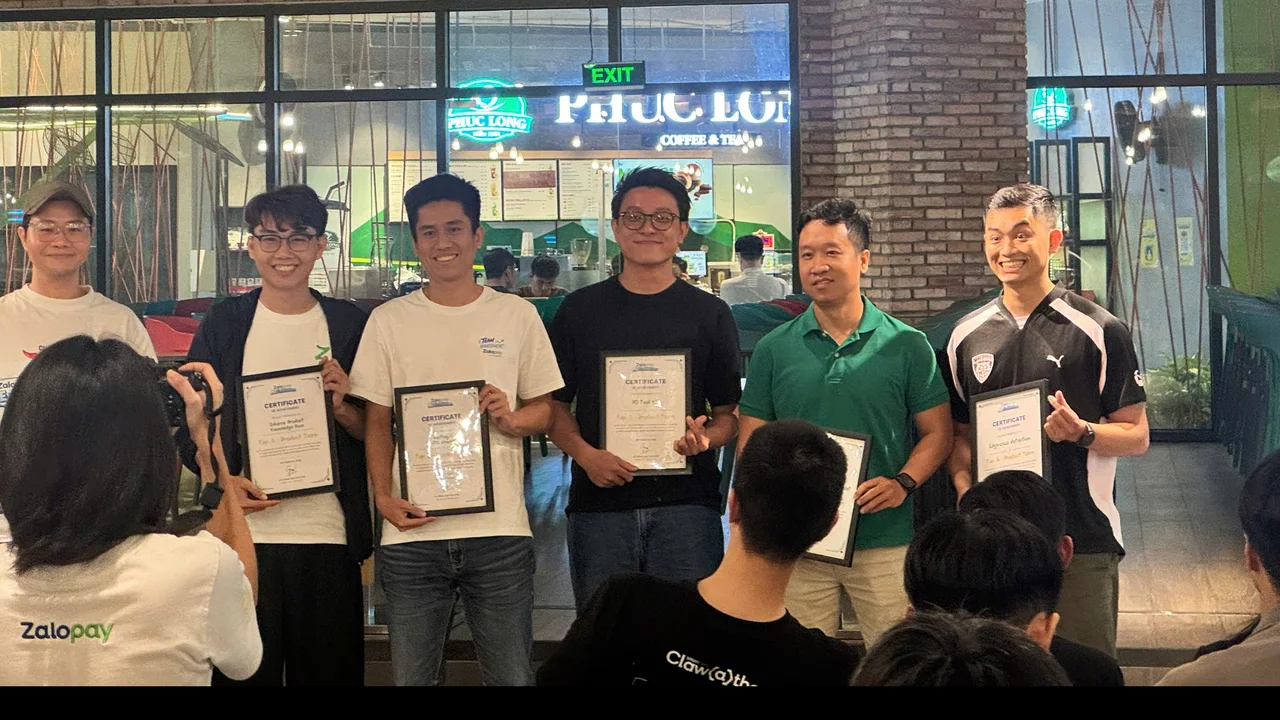
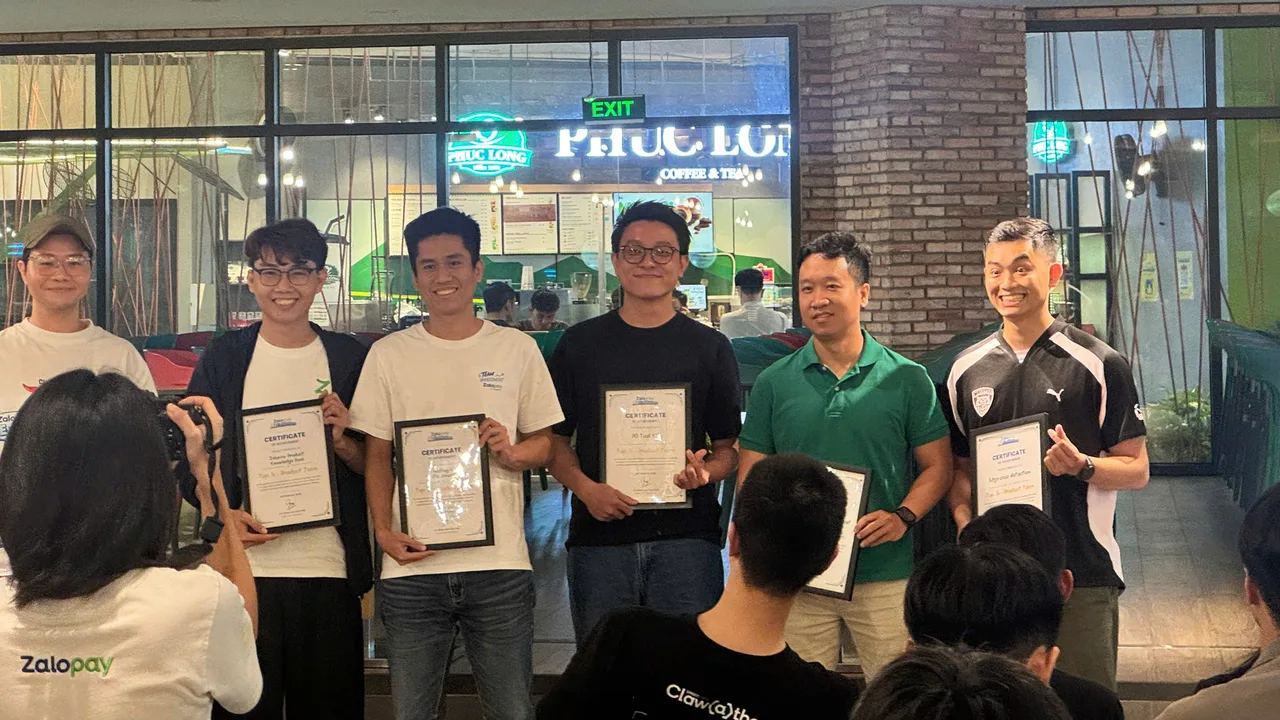
Light by default, Vietnam landscape hover, fix award photo, payment card layout, no spray on face

diff --git a/index.html b/index.html
@@ -23,7 +23,7 @@
         var t = localStorage.getItem("tn-theme");
         var q = location.search.match(/theme=(light|dark)/);
         if (q) t = q[1];
-        if (t === "light" || t === "dark") h.setAttribute("data-theme", t);
+        h.setAttribute("data-theme", t === "dark" ? "dark" : "light");
       } catch (e) {}
       try {
         if (location.search.indexOf("shot") < 0 && !window.matchMedia("(prefers-reduced-motion: reduce)").matches) {
@@ -82,7 +82,7 @@
         <div class="hero__copy">
           <div class="flags" aria-label="Vietnam and Singapore"><figure class="flag flag--vn"><svg viewBox="0 0 90 60" role="img" aria-label="Flag of Vietnam"><rect width="90" height="60" fill="#DA251D"/><polygon points="45.00,13.00 49.04,25.44 62.12,25.44 51.54,33.12 55.58,45.56 45.00,37.88 34.42,45.56 38.46,33.12 27.88,25.44 40.96,25.44" fill="#FFCD00"/></svg><figcaption>Vietnam</figcaption></figure><span class="flags__link" aria-hidden="true"></span><figure class="flag flag--sg"><svg viewBox="0 0 90 60" role="img" aria-label="Flag of Singapore"><rect width="90" height="60" fill="#fff"/><rect width="90" height="30" fill="#EF3340"/><circle cx="18" cy="15" r="11" fill="#fff"/><circle cx="22.5" cy="15" r="10.4" fill="#EF3340"/><polygon points="30.00,6.90 30.56,8.63 32.38,8.63 30.91,9.70 31.47,11.42 30.00,10.35 28.53,11.42 29.09,9.70 27.62,8.63 29.44,8.63" fill="#fff"/><polygon points="35.90,11.18 36.46,12.91 38.27,12.91 36.80,13.98 37.37,15.71 35.90,14.64 34.43,15.71 34.99,13.98 33.52,12.91 35.34,12.91" fill="#fff"/><polygon points="33.64,18.12 34.21,19.84 36.02,19.84 34.55,20.91 35.11,22.64 33.64,21.57 32.17,22.64 32.74,20.91 31.27,19.84 33.08,19.84" fill="#fff"/><polygon points="26.36,18.12 26.92,19.84 28.73,19.84 27.26,20.91 27.83,22.64 26.36,21.57 24.89,22.64 25.45,20.91 23.98,19.84 25.79,19.84" fill="#fff"/><polygon points="24.10,11.18 24.66,12.91 26.48,12.91 25.01,13.98 25.57,15.71 24.10,14.64 22.63,15.71 23.20,13.98 21.73,12.91 23.54,12.91" fill="#fff"/></svg><figcaption>Singapore</figcaption></figure></div>
           <p class="hero__who">Senior Product Manager, Zalopay · <b>Open to product roles in Singapore</b></p>
-          <h1 class="hero__h1">I build the wallet inside <span class="hl">the chat app <span class="vnw" tabindex="0">Vietnam<i class="vnw__f" aria-hidden="true"><svg viewBox="0 0 20 20"><polygon points="10.00,2.60 11.88,8.01 17.61,8.13 13.04,11.59 14.70,17.07 10.00,13.80 5.30,17.07 6.96,11.59 2.39,8.13 8.12,8.01"/></svg></i></span> lives on.</span></h1>
+          <h1 class="hero__h1">I build the wallet inside <span class="hl">the chat app <span class="vnw" tabindex="0">Vietnam<i class="vnw__f" aria-hidden="true"><svg viewBox="0 0 400 120" preserveAspectRatio="xMidYMax slice"><circle class="vs__sun" cx="306" cy="40" r="19"/><path class="vs__m2" d="M0 120V84C18 60 30 34 50 36C70 38 64 76 86 74C104 72 104 24 128 22C152 20 150 78 172 80C190 82 196 50 216 48C236 46 238 84 258 86C272 87 282 62 302 60C324 58 328 92 348 90C368 88 374 58 400 60V120Z"/><path class="vs__m1" d="M0 120V96C40 80 70 86 100 92S170 72 210 84 300 96 340 84 380 80 400 86V120Z"/><path class="vs__f" d="M0 120V104Q100 96 200 104T400 102V120Z"/><path class="vs__tr" d="M0 110Q100 103 200 110T400 108M0 116Q100 110 200 116T400 114"/><g class="vs__st vs__st--l"><path d="M16 120C16 90 20 70 30 52"/><path d="M30 52c6 4 8 12 6 20"/><path d="M8 120C9 96 6 80 0 64"/><ellipse cx="34" cy="62" rx="2.6" ry="5" transform="rotate(20 34 62)"/><ellipse cx="37" cy="70" rx="2.6" ry="5" transform="rotate(10 37 70)"/><ellipse cx="2" cy="70" rx="2.4" ry="4.6" transform="rotate(-20 2 70)"/></g><g class="vs__st vs__st--r"><path d="M384 120C384 90 380 70 370 52"/><path d="M370 52c-6 4-8 12-6 20"/><path d="M392 120C391 96 394 80 400 64"/><ellipse cx="366" cy="62" rx="2.6" ry="5" transform="rotate(-20 366 62)"/><ellipse cx="363" cy="70" rx="2.6" ry="5" transform="rotate(-10 363 70)"/><ellipse cx="398" cy="70" rx="2.4" ry="4.6" transform="rotate(20 398 70)"/></g></svg></i></span> lives on.</span></h1>
           <p class="hero__sub">I led the team behind login and identity for millions of Zalopay users, and now own Buy Now Pay Later. Before that, two years at Lazada.</p>
           <div class="hero__ctas">
             <a class="btn btn--ink" href="mailto:thaiquang.nguyenle@gmail.com">Email me</a>
@@ -129,7 +129,7 @@
       <div class="wrap about__grid">
         <figure class="about__pic ffx" style="--x:50%">
           <img class="ffx__a" src="assets/img/portrait.webp" width="900" height="1201" alt="Thai Max Nguyen presenting the login and identity team’s 2026 plan at Zalopay annual planning" loading="lazy" />
-          <div class="ffx__b" aria-hidden="true"><svg class="ffx__art" viewBox="0 0 900 1125" preserveAspectRatio="xMidYMid slice"><rect width="900" height="1125" class="ffa__bg"/><path class="ffa__ln" d="M-20 140C80 60 160 230 250 150S380 20 470 90 600 260 700 170 860 40 940 120"/><path class="ffa__ln" d="M-30 640C60 560 120 700 90 780S160 940 260 900"/><path class="ffa__ln" d="M930 520C820 470 760 560 800 650S900 760 820 860 640 900 700 1010"/><path class="ffa__ln" d="M560 1140C600 1060 700 1080 720 1020"/><image href="assets/img/portrait-cut.webp" x="0" y="-38" width="900" height="1201"/><g class="ffa__hat ffa__sp"><path transform="translate(300 300) rotate(-40) scale(1.6)" d="M0-14C6-4 9 2 9 6A9 9 0 0 1-9 6C-9 2-6-4 0-14Z" class="ffa__w2"/><path transform="translate(262 262) rotate(-45) scale(1.3)" d="M0-14C6-4 9 2 9 6A9 9 0 0 1-9 6C-9 2-6-4 0-14Z" class="ffa__w2"/><path transform="translate(230 300) rotate(-60) scale(1.1)" d="M0-14C6-4 9 2 9 6A9 9 0 0 1-9 6C-9 2-6-4 0-14Z" class="ffa__w2"/><path transform="translate(214 222) rotate(-40) scale(1.0)" d="M0-14C6-4 9 2 9 6A9 9 0 0 1-9 6C-9 2-6-4 0-14Z" class="ffa__w2"/><path transform="translate(276 214) rotate(-30) scale(0.9)" d="M0-14C6-4 9 2 9 6A9 9 0 0 1-9 6C-9 2-6-4 0-14Z" class="ffa__w2"/></g><g transform="translate(150 230) rotate(-8) scale(2.4)"><path d="M0 40C-34 40-40 8-22-14C-18 2-10 4-8-2C-14-24-2-44 14-52C10-32 30-22 30 4C30 26 18 40 0 40Z" class="ffa__k" style="stroke-width:3.3"/><path d="M0 34C-14 34-16 18-8 6C-6 14 0 14 2 10C0 0 6-10 12-14C12 0 18 8 16 20C14 30 8 34 0 34Z" class="ffa__w" style="stroke-width:2.1"/></g><g transform="translate(735 330) rotate(6) scale(3.1)"><path d="M0 40C-34 40-40 8-22-14C-18 2-10 4-8-2C-14-24-2-44 14-52C10-32 30-22 30 4C30 26 18 40 0 40Z" class="ffa__k" style="stroke-width:2.6"/><path d="M0 34C-14 34-16 18-8 6C-6 14 0 14 2 10C0 0 6-10 12-14C12 0 18 8 16 20C14 30 8 34 0 34Z" class="ffa__w" style="stroke-width:1.6"/></g><g transform="translate(820 180) rotate(12) scale(1.5)"><path d="M0 40C-34 40-40 8-22-14C-18 2-10 4-8-2C-14-24-2-44 14-52C10-32 30-22 30 4C30 26 18 40 0 40Z" class="ffa__k" style="stroke-width:5.3"/><path d="M0 34C-14 34-16 18-8 6C-6 14 0 14 2 10C0 0 6-10 12-14C12 0 18 8 16 20C14 30 8 34 0 34Z" class="ffa__w" style="stroke-width:3.3"/></g><g transform="translate(110 980) rotate(-4) scale(2.0)"><path d="M0 40C-34 40-40 8-22-14C-18 2-10 4-8-2C-14-24-2-44 14-52C10-32 30-22 30 4C30 26 18 40 0 40Z" class="ffa__k" style="stroke-width:4.0"/><path d="M0 34C-14 34-16 18-8 6C-6 14 0 14 2 10C0 0 6-10 12-14C12 0 18 8 16 20C14 30 8 34 0 34Z" class="ffa__w" style="stroke-width:2.5"/></g><g transform="translate(690 640)"><path d="M-48 30V-6A48 48 0 0 1 48-6V30Z" class="ffa__k"/><rect x="-62" y="28" width="124" height="22" rx="6" class="ffa__k"/><path d="M-22 4A24 24 0 0 1 2-20" class="ffa__hl"/><path d="M-96-34L-74-20M96-34L74-20M0-96V-72M-66-78L-52-58M66-78L52-58" class="ffa__ray"/></g><g class="ffa__hat"><g class="ffa__drop"><g transform="translate(392 228) rotate(-4) scale(0.8) translate(-380 -262)"><path class="ffa__k" d="M262 262Q378 228 498 262Q512 274 496 280Q378 250 266 280Q250 272 262 262Z"/><path class="ffa__k" d="M300 258C292 176 342 132 384 132C430 132 470 176 462 260Z"/><path class="ffa__hl" d="M384 140C376 184 376 220 382 250M318 220C320 186 336 162 356 150"/><path class="ffa__w" d="M346 176L392 166L400 214L370 226L344 212Z" style="stroke-width:5"/><circle cx="372" cy="196" r="9" class="ffa__bgc"/></g></g></g><g class="ffa__ext"><path d="M748 800C820 812 846 880 812 950" class="ffa__hl" style="stroke-width:10"/><rect x="660" y="820" width="112" height="240" rx="44" class="ffa__k"/><rect x="660" y="900" width="112" height="54" class="ffa__w" style="stroke-width:6"/><path d="M716 914v18M716 942v2" class="ffa__exm"/><rect x="690" y="774" width="52" height="50" rx="8" class="ffa__k"/><path d="M720 784L800 760" class="ffa__hl" style="stroke-width:12"/><path d="M802 948l22 26-30 8Z" class="ffa__k" style="stroke-width:6"/></g><path class="ffa__ray" d="M520 120l14 14M534 120l-14 14M600 470l12 12M612 470l-12 12M180 560l12 12M192 560l-12 12"/></svg></div>
+          <div class="ffx__b" aria-hidden="true"><svg class="ffx__art" viewBox="0 0 900 1125" preserveAspectRatio="xMidYMid slice"><rect width="900" height="1125" class="ffa__bg"/><path class="ffa__ln" d="M-20 140C80 60 160 230 250 150S380 20 470 90 600 260 700 170 860 40 940 120"/><path class="ffa__ln" d="M-30 640C60 560 120 700 90 780S160 940 260 900"/><path class="ffa__ln" d="M930 520C820 470 760 560 800 650S900 760 820 860 640 900 700 1010"/><path class="ffa__ln" d="M560 1140C600 1060 700 1080 720 1020"/><image href="assets/img/portrait-cut.webp" x="0" y="-38" width="900" height="1201"/><g transform="translate(150 230) rotate(-8) scale(2.4)"><path d="M0 40C-34 40-40 8-22-14C-18 2-10 4-8-2C-14-24-2-44 14-52C10-32 30-22 30 4C30 26 18 40 0 40Z" class="ffa__k" style="stroke-width:3.3"/><path d="M0 34C-14 34-16 18-8 6C-6 14 0 14 2 10C0 0 6-10 12-14C12 0 18 8 16 20C14 30 8 34 0 34Z" class="ffa__w" style="stroke-width:2.1"/></g><g transform="translate(735 330) rotate(6) scale(3.1)"><path d="M0 40C-34 40-40 8-22-14C-18 2-10 4-8-2C-14-24-2-44 14-52C10-32 30-22 30 4C30 26 18 40 0 40Z" class="ffa__k" style="stroke-width:2.6"/><path d="M0 34C-14 34-16 18-8 6C-6 14 0 14 2 10C0 0 6-10 12-14C12 0 18 8 16 20C14 30 8 34 0 34Z" class="ffa__w" style="stroke-width:1.6"/></g><g transform="translate(820 180) rotate(12) scale(1.5)"><path d="M0 40C-34 40-40 8-22-14C-18 2-10 4-8-2C-14-24-2-44 14-52C10-32 30-22 30 4C30 26 18 40 0 40Z" class="ffa__k" style="stroke-width:5.3"/><path d="M0 34C-14 34-16 18-8 6C-6 14 0 14 2 10C0 0 6-10 12-14C12 0 18 8 16 20C14 30 8 34 0 34Z" class="ffa__w" style="stroke-width:3.3"/></g><g transform="translate(110 980) rotate(-4) scale(2.0)"><path d="M0 40C-34 40-40 8-22-14C-18 2-10 4-8-2C-14-24-2-44 14-52C10-32 30-22 30 4C30 26 18 40 0 40Z" class="ffa__k" style="stroke-width:4.0"/><path d="M0 34C-14 34-16 18-8 6C-6 14 0 14 2 10C0 0 6-10 12-14C12 0 18 8 16 20C14 30 8 34 0 34Z" class="ffa__w" style="stroke-width:2.5"/></g><g transform="translate(690 640)"><path d="M-48 30V-6A48 48 0 0 1 48-6V30Z" class="ffa__k"/><rect x="-62" y="28" width="124" height="22" rx="6" class="ffa__k"/><path d="M-22 4A24 24 0 0 1 2-20" class="ffa__hl"/><path d="M-96-34L-74-20M96-34L74-20M0-96V-72M-66-78L-52-58M66-78L52-58" class="ffa__ray"/></g><g class="ffa__hat"><g class="ffa__drop"><g transform="translate(392 228) rotate(-4) scale(0.8) translate(-380 -262)"><path class="ffa__k" d="M262 262Q378 228 498 262Q512 274 496 280Q378 250 266 280Q250 272 262 262Z"/><path class="ffa__k" d="M300 258C292 176 342 132 384 132C430 132 470 176 462 260Z"/><path class="ffa__hl" d="M384 140C376 184 376 220 382 250M318 220C320 186 336 162 356 150"/><path class="ffa__w" d="M346 176L392 166L400 214L370 226L344 212Z" style="stroke-width:5"/><circle cx="372" cy="196" r="9" class="ffa__bgc"/></g></g></g><g class="ffa__ext"><path d="M748 800C820 812 846 880 812 950" class="ffa__hl" style="stroke-width:10"/><rect x="660" y="820" width="112" height="240" rx="44" class="ffa__k"/><rect x="660" y="900" width="112" height="54" class="ffa__w" style="stroke-width:6"/><path d="M716 914v18M716 942v2" class="ffa__exm"/><rect x="690" y="774" width="52" height="50" rx="8" class="ffa__k"/><path d="M720 784L800 760" class="ffa__hl" style="stroke-width:12"/><path d="M802 948l22 26-30 8Z" class="ffa__k" style="stroke-width:6"/></g><path class="ffa__ray" d="M520 120l14 14M534 120l-14 14M600 470l12 12M612 470l-12 12M180 560l12 12M192 560l-12 12"/></svg></div>
           <div class="ffx__bar" aria-hidden="true"><span class="ffx__k"><svg viewBox="0 0 24 24"><path d="M9 7l-5 5 5 5M15 7l5 5-5 5"/></svg></span></div>
           <input class="ffx__r" type="range" min="0" max="100" value="50" aria-label="Slide to reveal the firefighter: a drawing of him in a firefighter helmet, putting out fires" />
           <figcaption class="ffx__hint">Drag to meet the firefighter</figcaption>
@@ -244,7 +244,7 @@
     <section class="blk blk--alt" id="data" data-stn style="--c:var(--cc)" data-code="" data-name="Regulation">
       <div class="wrap">
         <header class="blk__h"><h2>Regulation, shipped</h2><p>Two rules from Vietnam’s central bank (think MAS), turned into product.</p></header>
-        <ul class="rgrid rgrid--v"><li id="ex-compliance"><p class="rg__k">Circular 40 · e-wallet identity</p><h4>Before anyone pays from the wallet, five checks</h4><ol class="rq"><li><i class="rq__ic" aria-hidden="true"><svg viewBox="0 0 24 24" fill="none" stroke="currentColor" stroke-width="1.7" stroke-linecap="round" stroke-linejoin="round"><text x="12" y="15.5" text-anchor="middle" font-size="10.5" font-weight="700" fill="currentColor" stroke="none" font-family="ui-monospace,monospace">16+</text></svg></i><b>Aged 16 or over</b><small>read from the ID card; under 16 is blocked</small></li><li><i class="rq__ic" aria-hidden="true"><svg viewBox="0 0 24 24" fill="none" stroke="currentColor" stroke-width="1.7" stroke-linecap="round" stroke-linejoin="round"><path d="M4 8V5.5A1.5 1.5 0 0 1 5.5 4H8M16 4h2.5A1.5 1.5 0 0 1 20 5.5V8M20 16v2.5a1.5 1.5 0 0 1-1.5 1.5H16M8 20H5.5A1.5 1.5 0 0 1 4 18.5V16"/><circle cx="12" cy="10.5" r="2.6"/><path d="M8 16.5c.8-1.8 2.2-2.6 4-2.6s3.2.8 4 2.6"/></svg></i><b>Identity verified (eKYC)</b><small>with a chip ID card, redone when the details expire</small></li><li><i class="rq__ic" aria-hidden="true"><svg viewBox="0 0 24 24" fill="none" stroke="currentColor" stroke-width="1.7" stroke-linecap="round" stroke-linejoin="round"><rect x="3" y="7" width="12" height="10" rx="1.5"/><rect x="5.5" y="10" width="3.5" height="3" rx=".6"/><path d="M17.5 9.5a3.5 3.5 0 0 1 0 5M20 7.5a6.5 6.5 0 0 1 0 9"/></svg></i><b>Chip ID card checked by NFC</b><small>matched with Ministry of Public Security records, or synced from VNeID</small></li><li class="has-m"><i class="rq__ic" aria-hidden="true"><svg viewBox="0 0 24 24" fill="none" stroke="currentColor" stroke-width="1.7" stroke-linecap="round" stroke-linejoin="round"><path d="M3.5 9.5 12 5l8.5 4.5M5 9.5h14M6.5 11.5v5M10 11.5v5M14 11.5v5M17.5 11.5v5M4 19h16"/></svg></i><b>A linked bank account in their own name</b><small>same ID and phone number as the Zalopay account</small></li><li class="is-ok"><i class="rq__ic" aria-hidden="true"><svg viewBox="0 0 24 24" fill="none" stroke="currentColor" stroke-width="1.7" stroke-linecap="round" stroke-linejoin="round"><path d="M9.5 7.5v9M14.5 7.5v9"/></svg></i><b>Anything missing: the payment pauses</b><small>the app opens only the step still missing</small></li></ol></li><li id="c50"><p class="rg__k">Decision 2345, Circulars 50 and 77 · payment checks</p><h4>How every Zalopay payment gets checked</h4><ul class="xchk" aria-label="Extra checks around every payment"><li><b>ID card still valid</b><span>expired details are verified again</span></li><li><b>Trusted device</b><span>known phones skip extra steps</span></li><li><b>First withdrawal</b><span>needs the chip ID card check</span></li><li><b>Paying from abroad</b><span>switches to a face check</span></li><li><b>Over 100M a month out</b><span>the chip check comes back</span></li></ul><figure class="fd__fig"><svg class="fd" viewBox="0 -12 520 346" style="overflow:visible" role="img" aria-label="Flow: each payment first passes a daily limit on money in and out, set by account level, and a device check that compares the device ID with the last sign-in; a new device needs a face check. Then the day's running total picks one check: PIN or biometrics under 5 million VND, a one-time code from 5 to 20 million VND, a face check above 20 million VND a day or 10 million VND in one payment. Then paid."><defs><marker id="fd-ar" viewBox="0 0 8 8" refX="7" refY="4" markerWidth="7" markerHeight="7" orient="auto"><path d="M0 0 L8 4 L0 8 z" class="fd__ah"/></marker></defs><rect x="150" y="4" width="220" height="46" rx="8" class="fd__b is-start"/><text x="260" y="24" text-anchor="middle" class="fd__t">Payment</text><text x="260" y="39" text-anchor="middle" class="fd__s">added to today’s total</text><path d="M260 50 V62 M135 62 H385" class="fd__l"/><path d="M135 62 V78" class="fd__l" marker-end="url(#fd-ar)"/><path d="M385 62 V78" class="fd__l" marker-end="url(#fd-ar)"/><rect x="15" y="82" width="240" height="70" rx="8" class="fd__b "/><svg x="27" y="92" width="24" height="24" viewBox="0 0 24 24" class="fd__ic" fill="none" stroke="currentColor" stroke-width="1.6" stroke-linecap="round" stroke-linejoin="round"><path d="M4 16a8 8 0 0 1 16 0"/><path d="M12 16l4-5"/><circle cx="12" cy="16" r="1.2" fill="currentColor"/></svg><text x="62" y="103" class="fd__t">Daily limit</text><text x="62" y="120" class="fd__s">money in and out today,</text><text x="62" y="135" class="fd__s">capped by account level</text><rect x="265" y="82" width="240" height="70" rx="8" class="fd__b "/><svg x="277" y="92" width="24" height="24" viewBox="0 0 24 24" class="fd__ic" fill="none" stroke="currentColor" stroke-width="1.6" stroke-linecap="round" stroke-linejoin="round"><rect x="7" y="3" width="10" height="18" rx="2"/><path d="M11 18h2"/><path d="M19.5 8.5l1.5 1.5-1.5 1.5M4.5 8.5L3 10l1.5 1.5"/></svg><text x="312" y="103" class="fd__t">Same device?</text><text x="312" y="120" class="fd__s">device ID vs last sign-in;</text><text x="312" y="135" class="fd__s">a new one needs a face check</text><path d="M135 152 V166 M385 152 V166 M135 166 H385" class="fd__l"/><path d="M260 166 V182" class="fd__l" marker-end="url(#fd-ar)"/><text x="90" y="204" text-anchor="middle" class="fd__t">PIN or Bio</text><text x="255" y="204" text-anchor="middle" class="fd__t">One-time code</text><text x="425" y="204" text-anchor="middle" class="fd__t">Face check</text><rect x="15" y="213" width="148" height="12" rx="6" class="fd__z z1"/><rect x="167" y="213" width="176" height="12" rx="6" class="fd__z z2"/><rect x="347" y="213" width="158" height="12" rx="6" class="fd__z z3"/><text x="15" y="242" class="fd__s">0</text><text x="165" y="242" text-anchor="middle" class="fd__s">5M</text><text x="345" y="242" text-anchor="middle" class="fd__s">20M a day</text><text x="505" y="242" text-anchor="end" class="fd__s">or 10M at once</text><path d="M260 250 V280" class="fd__l" marker-end="url(#fd-ar)"/><rect x="185" y="284" width="150" height="40" rx="8" class="fd__b is-ok"/><text x="260" y="308" text-anchor="middle" class="fd__t">Paid ✓</text><g class="fd__live" aria-hidden="true"><rect x="15" y="82" width="240" height="70" rx="8" class="fd__hit" opacity="0"><animate attributeName="opacity" dur="8s" repeatCount="indefinite" values="0;1;1;0;0" keyTimes="0;.03;.14;.18;1"/></rect><rect x="265" y="82" width="240" height="70" rx="8" class="fd__hit" opacity="0"><animate attributeName="opacity" dur="8s" repeatCount="indefinite" values="0;0;1;1;0;0" keyTimes="0;.06;.09;.16;.2;1"/></rect><rect x="11" y="186" width="156" height="44" rx="10" class="fd__hit" opacity="0"><animate attributeName="opacity" dur="8s" repeatCount="indefinite" values="0;0;1;1;0;0" keyTimes="0;.24;.27;.4;.43;1"/></rect><rect x="163" y="186" width="184" height="44" rx="10" class="fd__hit" opacity="0"><animate attributeName="opacity" dur="8s" repeatCount="indefinite" values="0;0;1;1;0;0" keyTimes="0;.47;.5;.63;.66;1"/></rect><rect x="343" y="186" width="166" height="44" rx="10" class="fd__hit" opacity="0"><animate attributeName="opacity" dur="8s" repeatCount="indefinite" values="0;0;1;1;0;0" keyTimes="0;.7;.73;.9;.94;1"/></rect><circle cx="22" cy="219" r="9" class="fd__mk"><animate attributeName="cx" dur="8s" repeatCount="indefinite" values="22;22;90;90;255;255;425;425" keyTimes="0;.2;.26;.42;.5;.66;.73;1"/><animate attributeName="opacity" dur="8s" repeatCount="indefinite" values="0;0;1;1;0" keyTimes="0;.19;.21;.93;1"/></circle><rect x="185" y="284" width="150" height="40" rx="8" class="fd__glow" opacity="0"><animate attributeName="opacity" dur="8s" repeatCount="indefinite" values="0;0;1;1;0" keyTimes="0;.86;.89;.96;1"/></rect></g></svg></figure></li></ul>
+        <ul class="rgrid rgrid--v"><li id="ex-compliance"><p class="rg__k">Circular 40 · e-wallet identity</p><h4>Before anyone pays from the wallet, five checks</h4><ol class="rq"><li><i class="rq__ic" aria-hidden="true"><svg viewBox="0 0 24 24" fill="none" stroke="currentColor" stroke-width="1.7" stroke-linecap="round" stroke-linejoin="round"><text x="12" y="15.5" text-anchor="middle" font-size="10.5" font-weight="700" fill="currentColor" stroke="none" font-family="ui-monospace,monospace">16+</text></svg></i><b>Aged 16 or over</b><small>read from the ID card; under 16 is blocked</small></li><li><i class="rq__ic" aria-hidden="true"><svg viewBox="0 0 24 24" fill="none" stroke="currentColor" stroke-width="1.7" stroke-linecap="round" stroke-linejoin="round"><path d="M4 8V5.5A1.5 1.5 0 0 1 5.5 4H8M16 4h2.5A1.5 1.5 0 0 1 20 5.5V8M20 16v2.5a1.5 1.5 0 0 1-1.5 1.5H16M8 20H5.5A1.5 1.5 0 0 1 4 18.5V16"/><circle cx="12" cy="10.5" r="2.6"/><path d="M8 16.5c.8-1.8 2.2-2.6 4-2.6s3.2.8 4 2.6"/></svg></i><b>Identity verified (eKYC)</b><small>with a chip ID card, redone when the details expire</small></li><li><i class="rq__ic" aria-hidden="true"><svg viewBox="0 0 24 24" fill="none" stroke="currentColor" stroke-width="1.7" stroke-linecap="round" stroke-linejoin="round"><rect x="3" y="7" width="12" height="10" rx="1.5"/><rect x="5.5" y="10" width="3.5" height="3" rx=".6"/><path d="M17.5 9.5a3.5 3.5 0 0 1 0 5M20 7.5a6.5 6.5 0 0 1 0 9"/></svg></i><b>Chip ID card checked by NFC</b><small>matched with Ministry of Public Security records, or synced from VNeID</small></li><li class="has-m"><i class="rq__ic" aria-hidden="true"><svg viewBox="0 0 24 24" fill="none" stroke="currentColor" stroke-width="1.7" stroke-linecap="round" stroke-linejoin="round"><path d="M3.5 9.5 12 5l8.5 4.5M5 9.5h14M6.5 11.5v5M10 11.5v5M14 11.5v5M17.5 11.5v5M4 19h16"/></svg></i><b>A linked bank account in their own name</b><small>same ID and phone number as the Zalopay account</small></li><li class="is-ok"><i class="rq__ic" aria-hidden="true"><svg viewBox="0 0 24 24" fill="none" stroke="currentColor" stroke-width="1.7" stroke-linecap="round" stroke-linejoin="round"><path d="M9.5 7.5v9M14.5 7.5v9"/></svg></i><b>Anything missing: the payment pauses</b><small>the app opens only the step still missing</small></li></ol></li><li id="c50"><p class="rg__k">Decision 2345, Circulars 50 and 77 · payment checks</p><h4>How every Zalopay payment gets checked</h4><ul class="xchk" aria-label="Extra checks around every payment"><li><b>ID card still valid</b><span>expired details are verified again</span></li><li><b>Trusted device</b><span>known phones skip extra steps</span></li><li><b>First withdrawal</b><span>needs the chip ID card check</span></li><li><b>Paying from abroad</b><span>switches to a face check</span></li><li><b>Over 100M a month out</b><span>the chip check comes back</span></li></ul><figure class="fd__fig"><svg class="fd" viewBox="0 -12 520 346" style="overflow:visible" role="img" aria-label="Flow: each payment first passes a daily limit on money in and out, set by account level, and a device check that compares the device ID with the last sign-in; a new device needs a face check. Then the day's running total picks one check: PIN or biometrics under 5 million VND, a one-time code from 5 to 20 million VND, a face check above 20 million VND a day or 10 million VND in one payment. Then paid."><defs><marker id="fd-ar" viewBox="0 0 8 8" refX="7" refY="4" markerWidth="7" markerHeight="7" orient="auto"><path d="M0 0 L8 4 L0 8 z" class="fd__ah"/></marker></defs><rect x="150" y="4" width="220" height="46" rx="8" class="fd__b is-start"/><text x="260" y="24" text-anchor="middle" class="fd__t">Payment</text><text x="260" y="39" text-anchor="middle" class="fd__s">added to today’s total</text><path d="M260 50 V62 M135 62 H385" class="fd__l"/><path d="M135 62 V78" class="fd__l" marker-end="url(#fd-ar)"/><path d="M385 62 V78" class="fd__l" marker-end="url(#fd-ar)"/><rect x="15" y="82" width="240" height="70" rx="8" class="fd__b "/><svg x="27" y="92" width="24" height="24" viewBox="0 0 24 24" class="fd__ic" fill="none" stroke="currentColor" stroke-width="1.6" stroke-linecap="round" stroke-linejoin="round"><path d="M4 16a8 8 0 0 1 16 0"/><path d="M12 16l4-5"/><circle cx="12" cy="16" r="1.2" fill="currentColor"/></svg><text x="62" y="103" class="fd__t">Daily limit</text><text x="62" y="120" class="fd__s">money in and out today,</text><text x="62" y="135" class="fd__s">capped by account level</text><rect x="265" y="82" width="240" height="70" rx="8" class="fd__b "/><svg x="277" y="92" width="24" height="24" viewBox="0 0 24 24" class="fd__ic" fill="none" stroke="currentColor" stroke-width="1.6" stroke-linecap="round" stroke-linejoin="round"><rect x="7" y="3" width="10" height="18" rx="2"/><path d="M11 18h2"/><path d="M19.5 8.5l1.5 1.5-1.5 1.5M4.5 8.5L3 10l1.5 1.5"/></svg><text x="312" y="103" class="fd__t">Same device?</text><text x="312" y="120" class="fd__s">device ID vs last sign-in;</text><text x="312" y="135" class="fd__s">a new one needs a face check</text><path d="M135 152 V166 M385 152 V166 M135 166 H385" class="fd__l"/><path d="M260 166 V182" class="fd__l" marker-end="url(#fd-ar)"/><text x="90" y="204" text-anchor="middle" class="fd__t">PIN or Bio</text><text x="255" y="204" text-anchor="middle" class="fd__t">One-time code</text><text x="425" y="204" text-anchor="middle" class="fd__t">Face check</text><rect x="15" y="213" width="148" height="12" rx="6" class="fd__z z1"/><rect x="167" y="213" width="176" height="12" rx="6" class="fd__z z2"/><rect x="347" y="213" width="158" height="12" rx="6" class="fd__z z3"/><text x="89" y="243" text-anchor="middle" class="fd__s">under 5M a day</text><text x="255" y="243" text-anchor="middle" class="fd__s">5M to 20M a day</text><text x="426" y="243" text-anchor="middle" class="fd__s">over 20M a day,</text><text x="426" y="258" text-anchor="middle" class="fd__s">or 10M at once</text><path d="M260 250 V280" class="fd__l" marker-end="url(#fd-ar)"/><rect x="185" y="284" width="150" height="40" rx="8" class="fd__b is-ok"/><text x="260" y="308" text-anchor="middle" class="fd__t">Paid ✓</text><g class="fd__live" aria-hidden="true"><rect x="15" y="82" width="240" height="70" rx="8" class="fd__hit" opacity="0"><animate attributeName="opacity" dur="8s" repeatCount="indefinite" values="0;1;1;0;0" keyTimes="0;.03;.14;.18;1"/></rect><rect x="265" y="82" width="240" height="70" rx="8" class="fd__hit" opacity="0"><animate attributeName="opacity" dur="8s" repeatCount="indefinite" values="0;0;1;1;0;0" keyTimes="0;.06;.09;.16;.2;1"/></rect><rect x="11" y="186" width="156" height="44" rx="10" class="fd__hit" opacity="0"><animate attributeName="opacity" dur="8s" repeatCount="indefinite" values="0;0;1;1;0;0" keyTimes="0;.24;.27;.4;.43;1"/></rect><rect x="163" y="186" width="184" height="44" rx="10" class="fd__hit" opacity="0"><animate attributeName="opacity" dur="8s" repeatCount="indefinite" values="0;0;1;1;0;0" keyTimes="0;.47;.5;.63;.66;1"/></rect><rect x="343" y="186" width="166" height="44" rx="10" class="fd__hit" opacity="0"><animate attributeName="opacity" dur="8s" repeatCount="indefinite" values="0;0;1;1;0;0" keyTimes="0;.7;.73;.9;.94;1"/></rect><circle cx="22" cy="219" r="9" class="fd__mk"><animate attributeName="cx" dur="8s" repeatCount="indefinite" values="22;22;90;90;255;255;425;425" keyTimes="0;.2;.26;.42;.5;.66;.73;1"/><animate attributeName="opacity" dur="8s" repeatCount="indefinite" values="0;0;1;1;0" keyTimes="0;.19;.21;.93;1"/></circle><rect x="185" y="284" width="150" height="40" rx="8" class="fd__glow" opacity="0"><animate attributeName="opacity" dur="8s" repeatCount="indefinite" values="0;0;1;1;0" keyTimes="0;.86;.89;.96;1"/></rect></g></svg></figure></li></ul>
       </div>
     </section>
 

diff --git a/css/style.css b/css/style.css
@@ -1192,3 +1192,33 @@ code { font-family: var(--font-mono); font-size: 0.9em; }
 .ffx.has-hat .ffa__drop { transform: none; }
 .ffx.has-hat .ffa__sp { transition-delay: 300ms; }
 @media (prefers-reduced-motion: reduce) { .ffa__drop { transition: none; transform: none; } }
+
+/* v9q: Vietnam grows a landscape behind the word; word stays readable */
+.vnw { isolation: isolate; }
+.vnw:hover, .vnw:focus-visible, .vnw.is-on { color: inherit; }
+.vnw__f { inset: 0.08em -0.06em 0.02em; z-index: -1; background: none; overflow: hidden; border-radius: 0.14em; transform: none; opacity: 0; transition: opacity 240ms cubic-bezier(0.22, 1, 0.36, 1); }
+.vnw__f svg { width: 100%; height: 100%; fill: none; animation: none !important; display: block; }
+.vs__sun { fill: var(--vn-red); opacity: 0.85; }
+.vs__m2 { fill: oklch(78% 0.08 165); }
+.vs__m1 { fill: oklch(70% 0.11 155); }
+.vs__f { fill: oklch(84% 0.13 95); }
+.vs__tr { fill: none; stroke: oklch(70% 0.12 85); stroke-width: 1.4; }
+.vs__st path { fill: none; stroke: oklch(62% 0.12 80); stroke-width: 2.4; stroke-linecap: round; }
+.vs__st ellipse { fill: oklch(76% 0.14 85); }
+.vnw__f svg > * { transform-box: fill-box; transform-origin: 50% 100%; transform: translateY(110%); transition: transform 620ms cubic-bezier(0.22, 1, 0.36, 1); }
+.vnw__f .vs__m1 { transition-delay: 60ms; } .vnw__f .vs__f, .vnw__f .vs__tr { transition-delay: 120ms; }
+.vnw__f .vs__sun { transition-delay: 200ms; } .vnw__f .vs__st { transform: scaleY(0); transition-delay: 260ms; }
+.vnw:hover .vnw__f, .vnw:focus-visible .vnw__f, .vnw.is-on .vnw__f { opacity: 1; }
+.vnw:hover .vnw__f svg > *, .vnw:focus-visible .vnw__f svg > *, .vnw.is-on .vnw__f svg > * { transform: none; }
+.motion .vnw:hover .vs__st, .motion .vnw.is-on .vs__st { animation: vsway 2.6s 900ms ease-in-out infinite alternate; }
+@keyframes vsway { to { transform: rotate(3deg); } }
+@media (prefers-reduced-motion: reduce) { .vnw__f svg > * { transition: none; } }
+/* v9q: awards photos keep 16:9 even with width/height attributes */
+.aw__grid img { height: auto; }
+/* v9q: extra checks as an even 2-column grid */
+.xchk { display: grid; grid-template-columns: repeat(2, minmax(0, 1fr)); }
+.xchk li:last-child:nth-child(odd) { grid-column: 1 / -1; }
+.xchk span { font: 400 var(--text-xs)/1.35 var(--font-body); letter-spacing: 0; }
+@media (max-width: 420px) { .xchk { grid-template-columns: minmax(0, 1fr); } }
+.xchk li { gap: 1px; } .xchk b, .xchk span { margin: 0; padding: 0; display: block; }
+.xchk li { padding-top: 8px; padding-bottom: 9px; }
